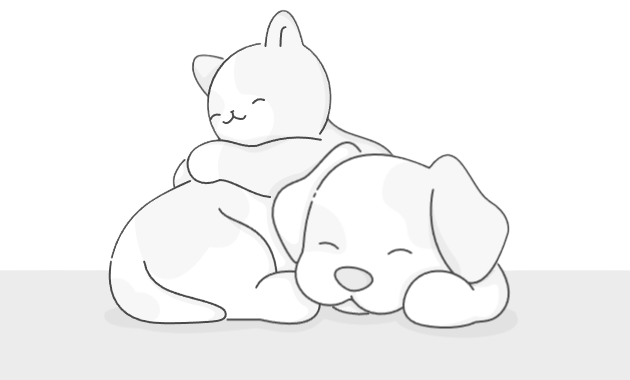
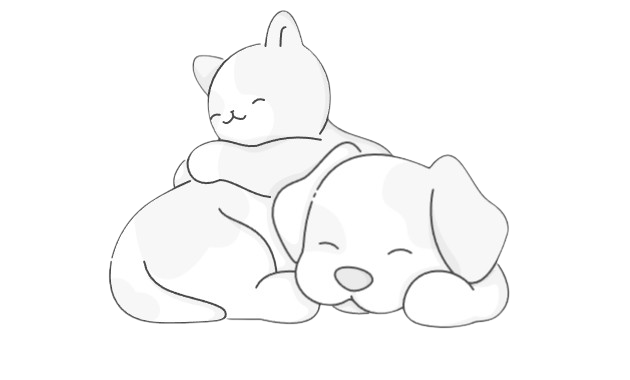
📝 Add or update documentation.

diff --git a/README.md b/README.md
@@ -34,3 +34,7 @@ seamless and inclusive.*
 
 ## :page_with_curl: License:
 Petoshield is open-source software licensed under the [MIT License](LICENSE)
+
+<div align="center">
+  <img src="docs/images/ds-removebg-preview.png" alt="pets">
+</div>
